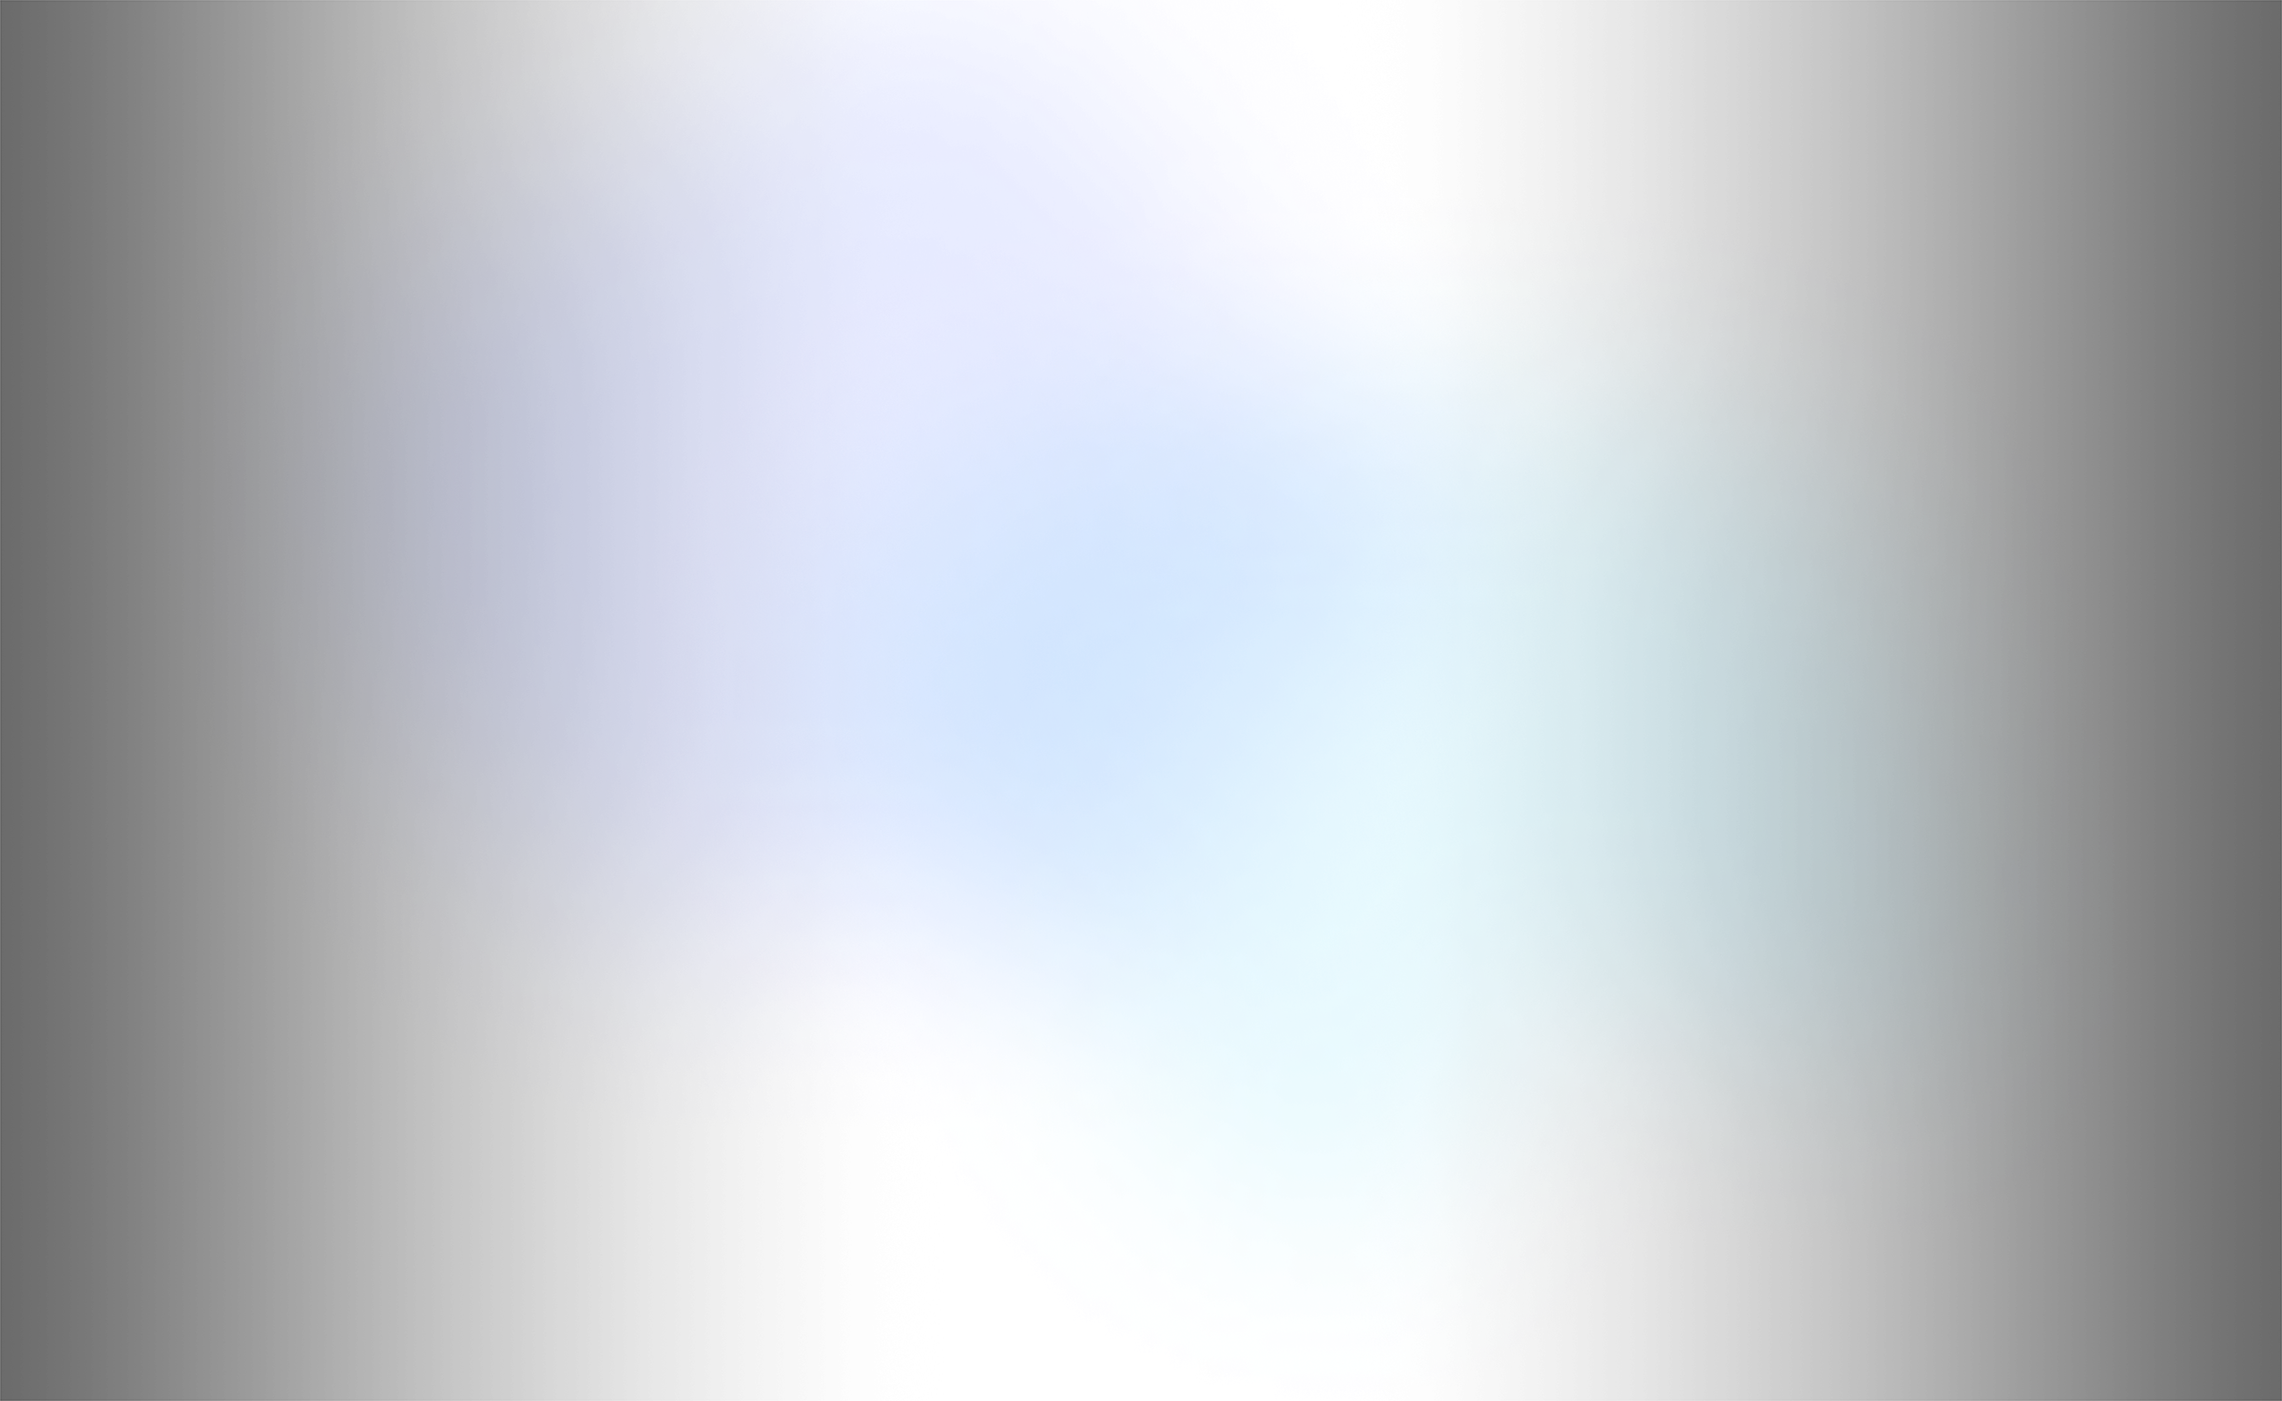
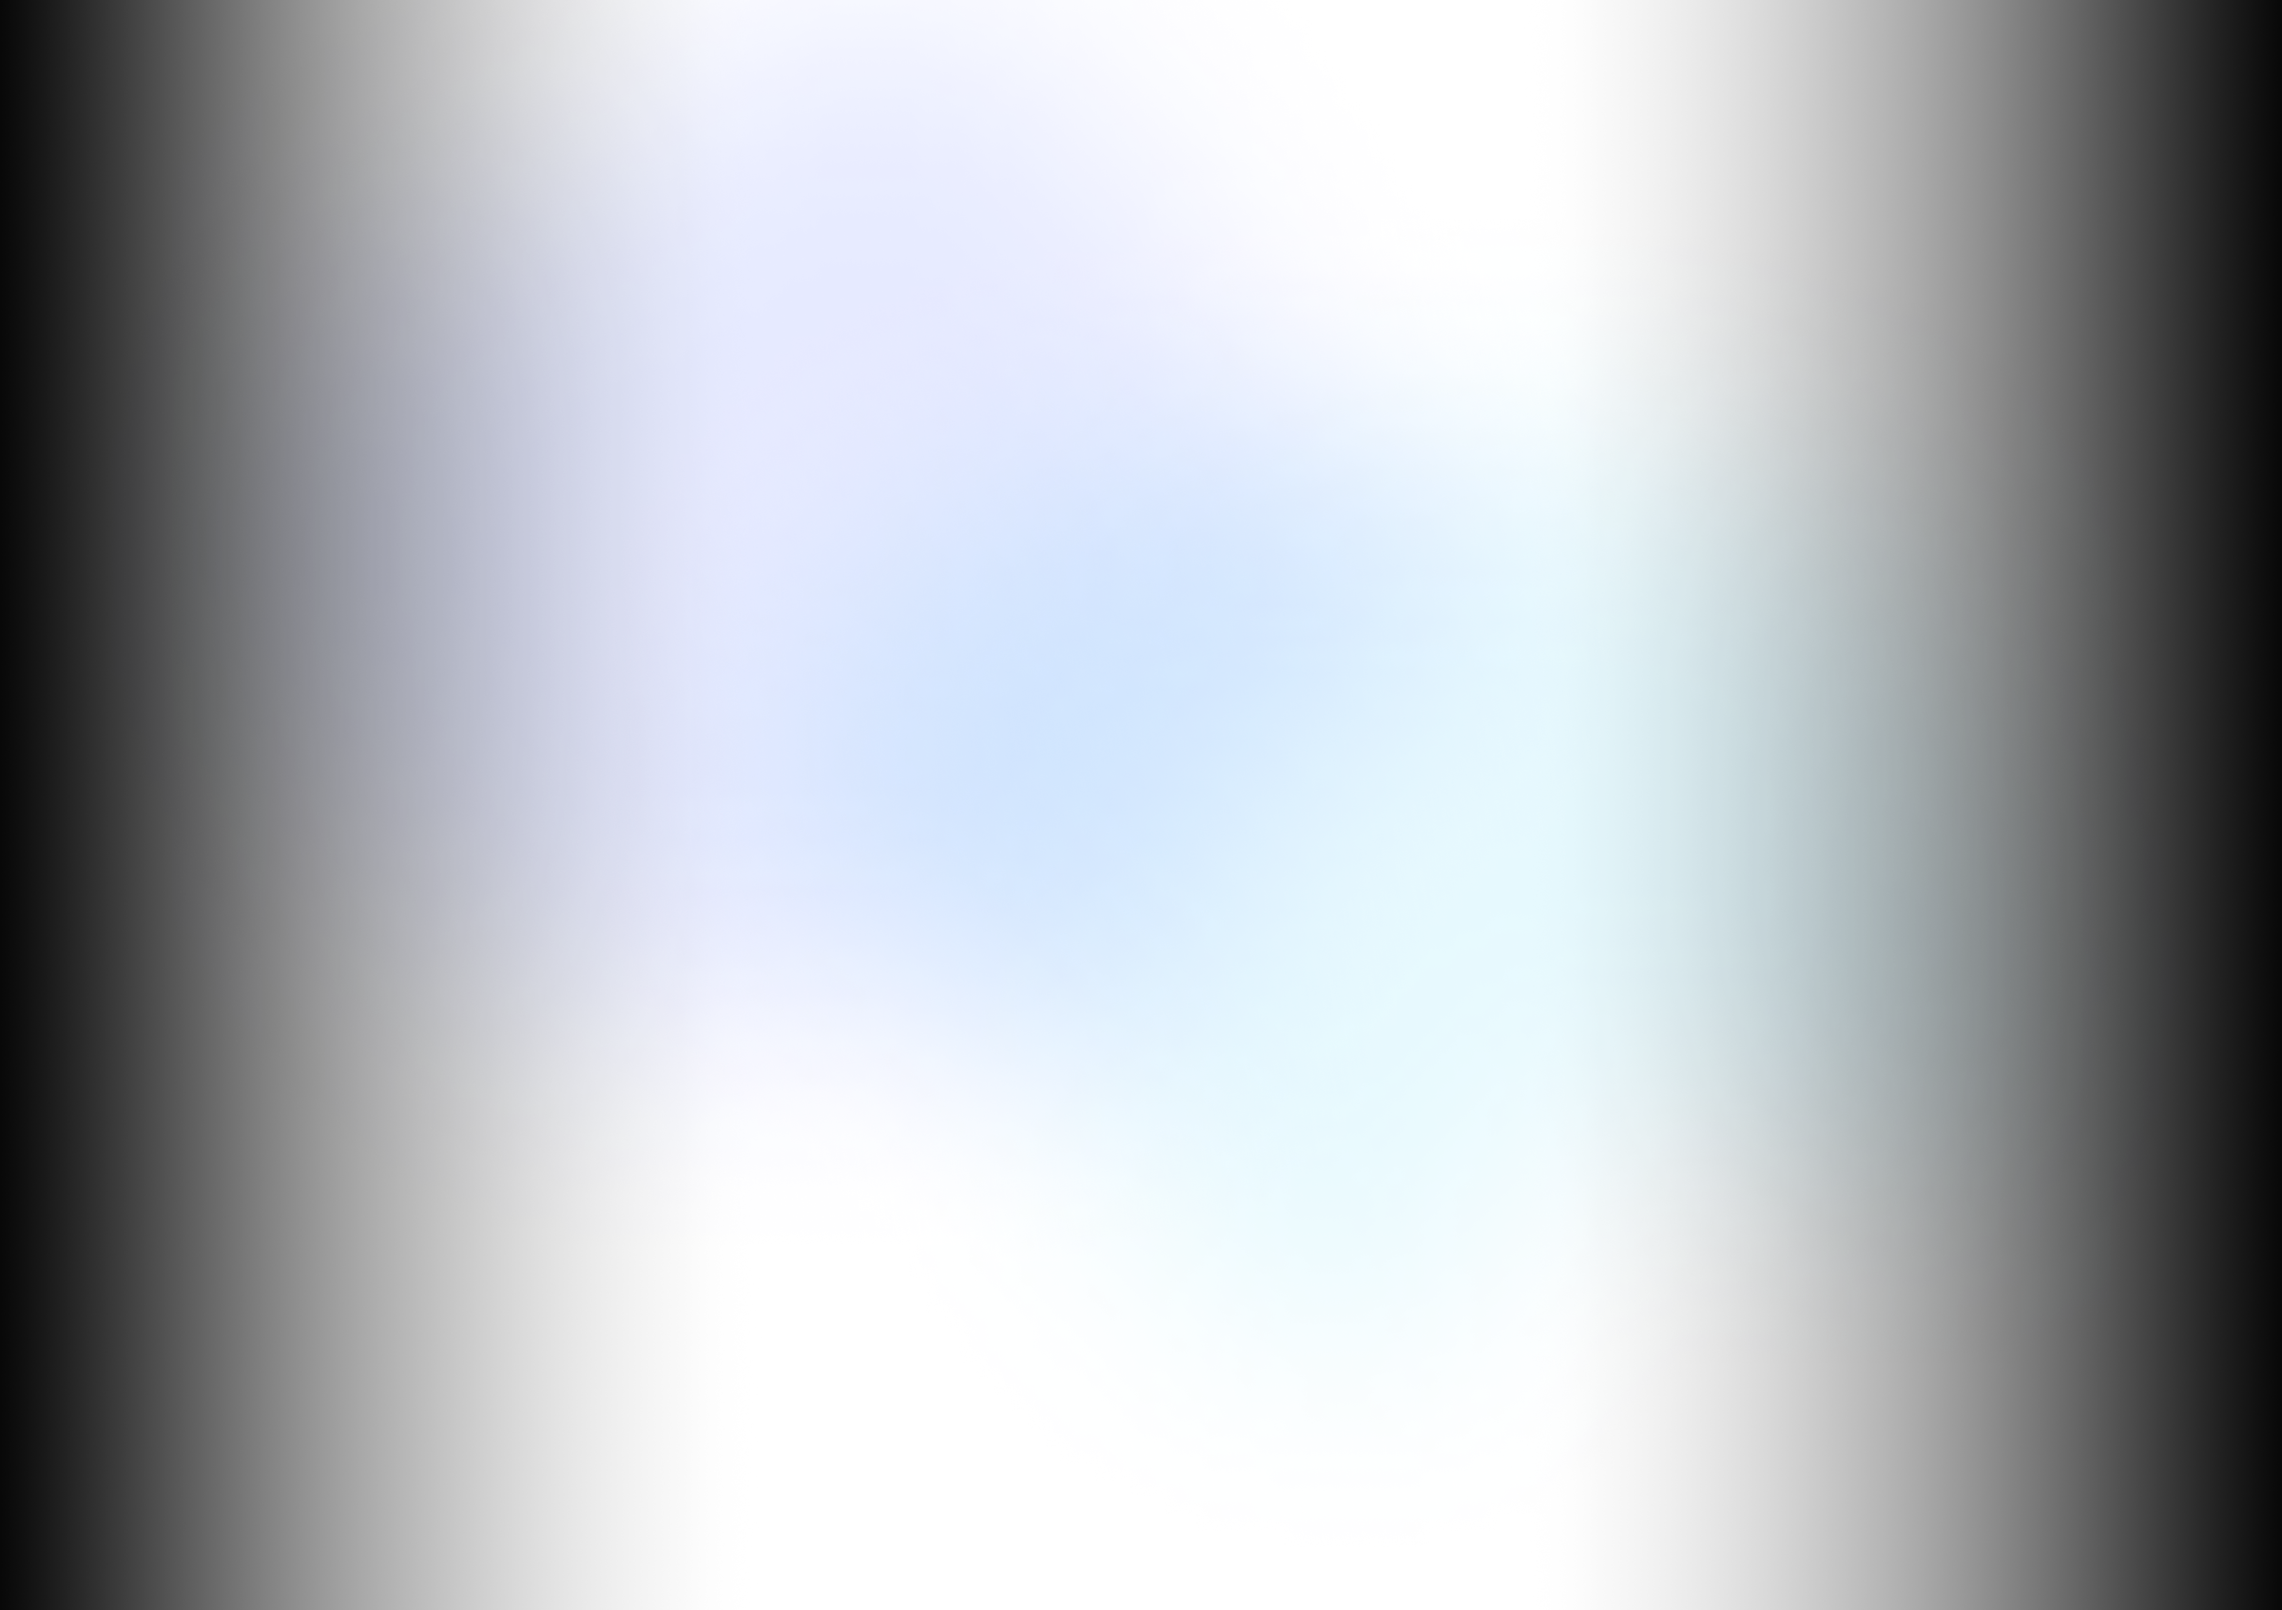
v3

Changed region(s): [[0.8438, 0.0, 1.0, 1.0], [0.0, 0.0, 0.1562, 1.0]]

diff --git a/v3/index.html b/v3/index.html
@@ -116,7 +116,7 @@
 				<div class="elipse-inside"></div>
 			</div>
 			<div class="bg bg1">
-				<img src="assets/img/home-bghd.gif" alt="">
+				<img src="assets/img/home-bg.webp" alt="">
 			</div>
 			<div class="bg bg2">
 				<img src="assets/img/home-bghd.gif" alt="">

diff --git a/v2/index.html b/v2/index.html
@@ -125,7 +125,7 @@
 				<img src="assets/img/home-bg.gif" alt="">
 			</div>
 			<div class="bg-home">
-				<img src="assets/img/back.png" alt="">
+				<img src="assets/img/back-gif.png" alt="">
 			</div>
 
 		</section>

diff --git a/v3/assets/css/sections.css b/v3/assets/css/sections.css
@@ -114,6 +114,7 @@
     will-change: transform;
     /* overflow: hidden; */
     z-index: 0;
+    opacity: .6;
 }
 
 #home .elipses {
